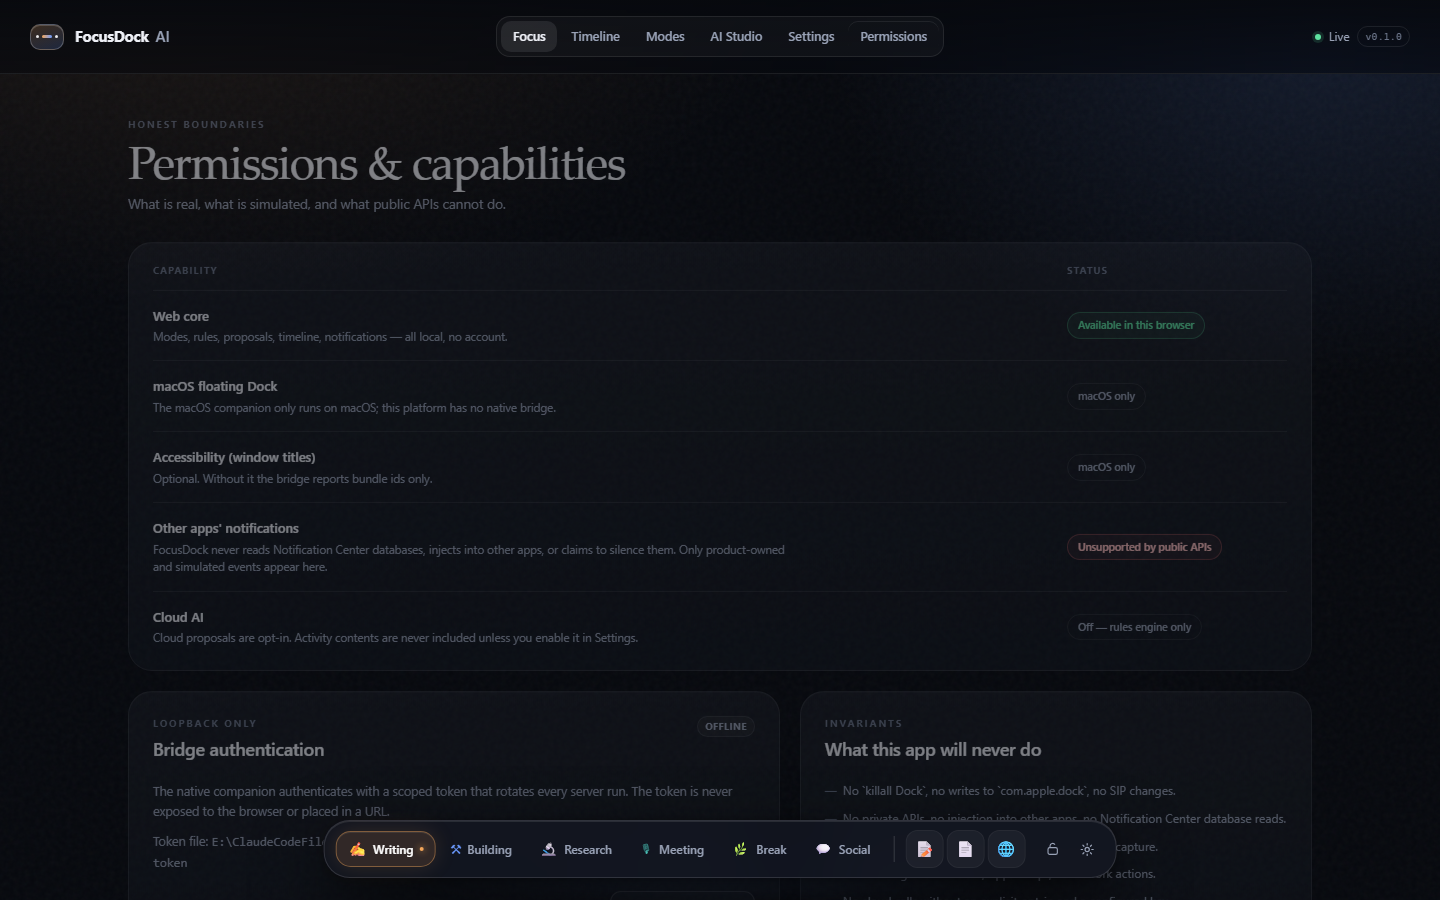
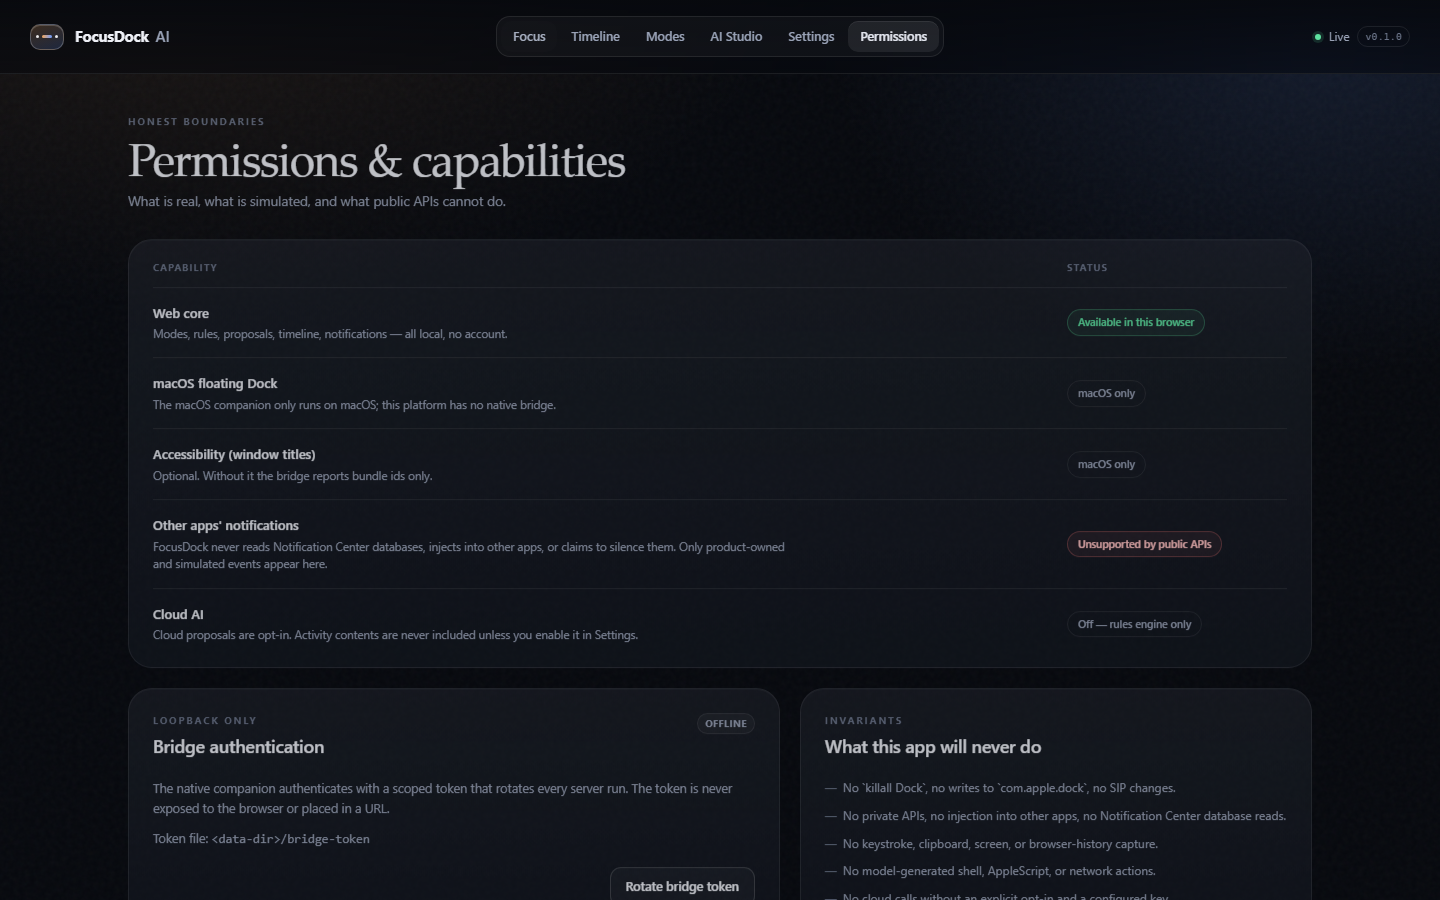
docs: prepare public v0.1.0 release and record QA waiver
- record independent sub-agent verification (not Muse)
- document the product owner's waiver of the Muse gate
- sanitize the permissions screenshot and Muse procedure
- update bilingual status, changelog, and release notes

diff --git a/tests/e2e/03-settings-security.spec.ts b/tests/e2e/03-settings-security.spec.ts
@@ -23,6 +23,10 @@ test("the capability panel states the notification limit honestly", async ({ pag
   await expect(page.getByText(/never reads Notification Center databases/)).toBeVisible();
   await expect(page.getByText("macOS only").first()).toBeVisible();
   await page.evaluate(() => window.scrollTo(0, 0));
+  await page.addStyleTag({ content: ".dock-wrap { display: none !important; }" });
+  await page.locator(".panel-note code").evaluateAll((nodes) => {
+    for (const node of nodes) node.textContent = "<data-dir>/bridge-token";
+  });
   await page.screenshot({ path: "qa/evidence/05-permissions.png" });
 });
 

diff --git a/FINAL_RELEASE_CLOSURE.md b/FINAL_RELEASE_CLOSURE.md
@@ -1,12 +1,23 @@
 # Final Release Closure — FocusDock AI v0.1.0
 
-Date: 2026-10-30
-Repository: <https://github.com/AIMetaPhD/agentic-focus-dock> (**private**)
-Release candidate: tag `v0.1.0-rc.2` · product code commit `01c21e0b72b2d717b913824906f8f66c3516d3dd`
-CI: <https://github.com/AIMetaPhD/agentic-focus-dock/actions/runs/40955753656> — **success**
+Date: 2026-11-01
+Repository: <https://github.com/AIMetaPhD/agentic-focus-dock> (**public**)
+Release: <https://github.com/AIMetaPhD/agentic-focus-dock/releases/tag/v0.1.0>
+Product code commit: `01c21e0b72b2d717b913824906f8f66c3516d3dd`
+Verified tree: `ea3ef8605932163f913d4db1d9d79860eed911bf`
+CI: <https://github.com/AIMetaPhD/agentic-focus-dock/actions/runs/40957464211> — **success**
+Previous private RC: tag `v0.1.0-rc.2`
 
-This document is the implementation owner's closure record. It is not a Muse
-sign-off and it does not authorize a public release.
+This document is the implementation owner's closure record. It is **not** a Muse
+sign-off and it does not claim that the Muse gate passed.
+
+## Product owner decision
+
+On 2026-11-01 the product owner selected the option to accept the independent
+Claude sub-agent verification as supplementary release evidence and proceed with
+the public release. The Muse gate remains **NOT VERIFIED**. This is a documented
+waiver, not a Muse PASS; the original acceptance criterion "Muse independent QA
+sign-off" is therefore **not fully met**.
 
 ## Gate status
 
@@ -16,13 +27,14 @@ sign-off and it does not authorize a public release.
 | G1 Runnable browser MVP | **PASS** | 69 automated tests; screenshots `qa/evidence/`; Windows 11 real run |
 | G2 Rules, AI proposals, persistence, privacy | **PASS** (rules path) | `server/test/rules.test.ts`, `server/test/proposals.test.ts`, E2E |
 | G3 macOS bridge | **NOT VERIFIED** | Swift package + macOS CI compile; no real-device run |
-| G4 Independent Muse QA | **NOT VERIFIED** | no Muse instance could reach the source (attempts 1–2); the source-snapshot channel was refused as opaque (attempt 3). See `docs/QA_REPORT.md` and `qa/muse-result-G4-attempt*.json` |
-| G5 Private release candidate | **PASS for private RC** | green CI, bilingual README, LICENSE/NOTICE/SECURITY/PRIVACY, private repo |
-| G6 Profile README | **BLOCKED** | requires a public repo and explicit user approval |
+| G4 Independent Muse QA | **WAIVED — Muse NOT VERIFIED** | three Muse attempts blocked by the VM/harness; independent Claude sub-agent PASS (not Muse) on `ea3ef86`; owner waiver 2026-11-01. See `docs/QA_REPORT.md` and `qa/SUBAGENT_VERIFICATION_2026-10-30.md` |
+| G5 Public release candidate | **PASS under documented waiver** | public repo, v0.1.0 Release, green CI, bilingual README, LICENSE/NOTICE/SECURITY/PRIVACY |
+| G6 Profile README | **PR OPEN — merge awaits owner** | `AIMetaPhD/AIMetaPhD` pull request; merge is not part of this release |
 
 ## What is real
 
-- A local web app at `http://127.0.0.1:4317`, started with `npm start`.
+- A public, MIT-licensed local web app at `http://127.0.0.1:4317`, started with
+  `npm start`.
 - Six modes with editable config, pinned apps, colors, allowlists, keywords,
   dwell/cooldown, notification policy.
 - Versioned persistence in SQLite; export/import; restore defaults; rollback.
@@ -46,8 +58,8 @@ sign-off and it does not authorize a public release.
 | Multi-display/full-screen/sleep-wake | **NOT VERIFIED** | same |
 | Live Ollama / cloud provider | **NOT EXERCISED** | no model/endpoint in this environment |
 | Global notification interception | **UNSUPPORTED** | public API limit; explicitly stated in UI/docs |
-| Public GitHub Release / profile PR | **NOT DONE** | awaiting user authorization |
-| Muse independent sign-off | **NOT VERIFIED** | all three dispatch attempts blocked by the Muse VM/harness, not by a product defect; see `docs/QA_REPORT.md` |
+| Muse independent sign-off | **NOT VERIFIED / WAIVED** | all three dispatch attempts blocked by the Muse VM/harness, not by a product defect; owner accepted supplementary sub-agent verification on 2026-11-01 |
+| Profile PR merge | **OPEN** | the PR is open; merging still requires the owner's approval |
 
 ## Evidence index
 
@@ -55,39 +67,41 @@ sign-off and it does not authorize a public release.
 |---|---|
 | Server/security/rules tests (52) | `server/test/`, result in `docs/QA_REPORT.md` |
 | Web unit tests (4) | `web/src/i18n.test.ts` |
-| Playwright (13) | `tests/e2e/`, report `qa/evidence/playwright-report/` |
-| Screenshots | `qa/evidence/*.png` |
-| CI run | Actions run `40955753656`, all three jobs green |
-| Muse attempt 1 | `qa/muse-result-G4-attempt1.json` (verbatim queue result) |
+| Playwright (13) | `tests/e2e/`, screenshots `qa/evidence/*.png` |
+| Independent sub-agent verification (not Muse) | `qa/SUBAGENT_VERIFICATION_2026-10-30.md` |
+| CI run | Actions run `40957464211`, all three jobs green on `ea3ef86` |
+| Muse attempts 1–3 | `qa/muse-result-G4-attempt*.json`, `docs/QA_REPORT.md` |
 | Architecture / threat model | `docs/ADR-001-ARCHITECTURE.md`, `docs/THREAT_MODEL.md` |
 | License audit | `docs/THIRD_PARTY_AUDIT.md`, `NOTICE.md` |
+| Release notes | `docs/RELEASE_NOTES_v0.1.0.md` |
 
 ## Security and privacy statement
 
 - No GPL-3.0 or all-rights-reserved code is copied. Research references are
   documented and were not vendored.
-- No keys, tokens, private paths, or personal screenshots are committed. CI runs
-  a tracked-file secret scan and a runtime dependency audit.
+- The tracked working tree was scanned (101 files); the pre-release git history
+  patch output (709,535 bytes) was scanned for secret patterns and the
+  workstation username. Both scans were clean.
+- The public permissions screenshot redacts the local bridge-token path and hides
+  the floating dock overlay.
 - The app stores only local mode config, synthetic/demo events and settings.
   The optional cloud key lives outside SQLite in a `0600` file.
 - No third-party notification database is read; no SIP/Dock modification; no
   shell/AppleScript execution by the model.
 
-## Required before a public release
+## Release conditions
 
-1. Resolve or formally waive the Muse QA gate. A Muse PASS on this commit is
-   required; if no Muse instance can reach the source, record G4 as NOT VERIFIED
-   and obtain the product owner's decision.
-2. Run the macOS bridge checklist on Apple Silicon and attach evidence
-   (`mac-bridge/README.md`).
-3. Obtain explicit user authorization to change repository visibility and create
-   a public Release/tag.
-4. Only after the repository is public and reachable, open the minimal
-   `AIMetaPhD/AIMetaPhD` profile PR and request the user's approval to merge.
+1. The Muse QA gate is **waived, not passed**. The owner accepted the sub-agent
+   verification as supplementary evidence on 2026-11-01.
+2. The macOS bridge remains **NOT VERIFIED**; the Release notes say so and the
+   binary is not presented as production-ready.
+3. Public visibility and the v0.1.0 Release were explicitly authorized by the
+   product owner on 2026-11-01.
+4. The profile README PR is open; merging it still requires the owner's approval.
 
 ## Commit / build
 
 - Node 24.12.0 on Windows 11; `npm ci && npm run verify` passes.
 - CI repeats the full suite on Ubuntu and compiles/tests the Swift package on
   macOS 14.
-- The private RC tag, if created, is `v0.1.0-rc.1` (no public Release).
+- Public tag: `v0.1.0`.

diff --git a/docs/QA_REPORT.md b/docs/QA_REPORT.md
@@ -1,6 +1,8 @@
 # QA Report — v0.1.0
 
-Status: **development verification complete; independent Muse QA PENDING.**
+Status: **development verification complete; independent Muse QA NOT VERIFIED;
+the product owner waived the Muse gate for v0.1.0 on 2026-11-01 based on
+supplementary sub-agent verification.**
 This file is written by the implementation owner. It is **not** a Muse sign-off.
 
 ## Environment
@@ -11,7 +13,8 @@ This file is written by the implementation owner. It is **not** a Muse sign-off.
 | Node | v24.12.0 |
 | Browser (E2E) | Playwright Chromium, 1440×900 |
 | Product code under test | `01c21e0b72b2d717b913824906f8f66c3516d3dd` (tag `v0.1.0-rc.2`) |
-| CI run | `https://github.com/AIMetaPhD/agentic-focus-dock/actions/runs/40955753656` (success on the product tree) |
+| Verified tree | `ea3ef8605932163f913d4db1d9d79860eed911bf` |
+| CI run | `https://github.com/AIMetaPhD/agentic-focus-dock/actions/runs/40957464211` (success on `ea3ef86`) |
 | Data | isolated `qa/e2e-data`, wiped per run; screenshots use synthetic data |
 | macOS | **not available** — G3 NOT VERIFIED |
 
@@ -26,7 +29,7 @@ Command: `npm test && npm run test:e2e` (also `npm run verify` in CI).
 | Playwright end-to-end | **13 passed, 0 failed** |
 | TypeScript | clean |
 | ESLint | clean |
-| Secret scan | clean (tracked files only) |
+| Secret scan | clean (99 tracked files) |
 
 ### What the automated tests prove
 
@@ -48,6 +51,25 @@ Command: `npm test && npm run test:e2e` (also `npm run verify` in CI).
   suggestion and switch, reload persistence, manual lock, AI diff/apply,
   rollback, new-mode creation, English/Chinese switch, capability truth.
 
+## Independent sub-agent verification (not Muse)
+
+A fresh-context Claude sub-agent re-ran the suite in an isolated git worktree on
+the same Windows workstation. It did not modify, commit, or push the product.
+
+| Item | Result |
+|---|---|
+| Commit | `ea3ef8605932163f913d4db1d9d79860eed911bf` |
+| `npm ci` | clean |
+| Typecheck / lint | pass |
+| Unit + integration | **56 passed** (52 server + 4 web) |
+| Build | pass |
+| Playwright | **13 passed** |
+| Black-box probes B1–B15 | pass; no Sev0/Sev1 |
+| Scope not covered | macOS runtime, live providers, public release, Muse QA |
+
+Full report: `qa/SUBAGENT_VERIFICATION_2026-10-30.md`. This is supplementary
+evidence, not a Muse gate pass.
+
 ## Evidence index
 
 | Evidence | Path |
@@ -57,10 +79,10 @@ Command: `npm test && npm run test:e2e` (also `npm run verify` in CI).
 | Building after suggested switch | `qa/evidence/02-focus-building.png` |
 | AI proposal diff | `qa/evidence/03-ai-diff.png` |
 | Mode editor + version history | `qa/evidence/04-mode-editor.png` |
-| Permissions & capabilities | `qa/evidence/05-permissions.png` |
+| Permissions & capabilities (local path redacted) | `qa/evidence/05-permissions.png` |
 | Chinese settings | `qa/evidence/06-settings-zh.png` |
 | Timeline after 50-event burst | `qa/evidence/07-timeline.png` |
-| Playwright HTML report | `qa/evidence/playwright-report/` |
+| Sub-agent report | `qa/SUBAGENT_VERIFICATION_2026-10-30.md` |
 | Test sources | `server/test/`, `web/src/*.test.ts`, `tests/e2e/` |
 
 ## Not verified
@@ -72,8 +94,7 @@ Command: `npm test && npm run test:e2e` (also `npm run verify` in CI).
 | Multi-display / full-screen / sleep-wake | no Mac | recording per scenario |
 | Live Ollama provider | no local model installed | request/response log + latency |
 | Live OpenAI-compatible provider | no endpoint/key used | opt-in screenshot + provider response |
-| Public GitHub release | awaiting user authorization | repo visibility + Release URL |
-| `AIMetaPhD` profile PR | depends on public release | PR URL |
+| Muse independent QA (G4) | three Muse VM/harness blocks | Muse re-dispatch on a reachable workstation; currently waived by owner |
 
 ## Independent Muse QA
 
@@ -88,9 +109,10 @@ Muse produces its own verdict; the development owner does not sign it.
 All three attempts are environment/harness blocks, not product failures and not
 a PASS. No Muse instance could reach the repository, and the snapshot channel
 was refused as opaque. The independent-QA gate therefore remains **NOT
-VERIFIED**; the automated evidence above must not be relabelled as an
-independent sign-off. This blocks a public release, not the private release
-candidate.
+VERIFIED**. The product owner accepted the sub-agent report as supplementary
+evidence and waived the Muse gate for v0.1.0 on 2026-11-01; this is not a Muse
+sign-off.
 
-No Sev0/Sev1 defect was found by the automated suite. That is not a substitute
-for independent QA, and it does not cover the macOS-only items above.
+No Sev0/Sev1 defect was found by the automated suite or the independent
+sub-agent. That does not cover the macOS-only items above and does not turn the
+Muse gate into a PASS.

diff --git a/docs/RELEASE_NOTES_v0.1.0.md b/docs/RELEASE_NOTES_v0.1.0.md
@@ -1,0 +1,65 @@
+# FocusDock AI v0.1.0
+
+**A local-first, AI-native focus dock with customizable modes and an optional macOS companion.**
+
+This is the first public release. It is a real, runnable local web app — not a
+mockup. Everything runs on `127.0.0.1`; there is no account, no telemetry, and
+no cloud key requirement.
+
+## What works
+
+- Bottom capsule dock with six editable modes, pinned apps, colors and manual lock.
+- Deterministic offline rules: allowlists, keywords, 15 s dwell, cooldown, hysteresis.
+- Notification queue with a 30 s switch cool-down and `Stay` / `Later` /
+  `Go to Social`; `Later` never launches an app.
+- AI Studio: natural-language instruction → validated JSON Patch → visible diff →
+  explicit apply → versioned rollback. Rules provider works offline; Ollama and
+  OpenAI-compatible adapters are opt-in.
+- SQLite persistence, export/import, restore defaults, timeline and audit log.
+- English / 简体中文 UI, including an honest capability panel.
+- Loopback security: Host/Origin allowlists, HttpOnly session, CSRF double-submit,
+  WebSocket origin checks, scoped rotating bridge token, 64 KB body limit,
+  rate limits, no CORS.
+- Optional Swift `NSPanel` + `WKWebView` bridge source, compiled and unit-tested
+  on a macOS 14 CI runner.
+
+## Verified
+
+- Windows 11: `npm ci`, typecheck, lint, 56 unit/integration tests, build and
+  13 Playwright tests pass.
+- CI run `40957464211` on commit `ea3ef86`: Ubuntu web tests, macOS 14 Swift
+  build/tests, secret scan and runtime audit all green.
+- A fresh-context Claude sub-agent independently re-ran the suite and black-box
+  probes B1–B15 in an isolated worktree; no Sev0/Sev1 finding.
+
+## Not verified — read before relying on it
+
+- **macOS floating panel / Accessibility runtime is NOT VERIFIED.** The Swift
+  source and macOS CI compile are present, but no Apple Silicon device was
+  available. Do not treat the bridge as production-ready.
+- **Live Ollama / OpenAI-compatible endpoints were not exercised.** Only the
+  rules provider and synthetic malicious-output rejection were tested.
+- **Muse independent QA is NOT VERIFIED.** Three Muse dispatches were blocked by
+  the Muse VM/harness (repository access, then an opaque-snapshot rejection); no
+  Muse test executed. The product owner accepted the sub-agent verification as
+  supplementary evidence and waived the Muse gate for this release. **This is not
+  a Muse sign-off.**
+- Global system-notification interception is unsupported by public Apple APIs
+  and is not claimed.
+- No signed/notarized `.app` and no auto-update.
+
+## Install
+
+```bash
+git clone https://github.com/AIMetaPhD/agentic-focus-dock.git
+cd agentic-focus-dock
+npm install
+npm start
+```
+
+Node.js 22.5+ (Node 24 recommended). The server listens on
+`http://127.0.0.1:4317` and tries 4318–4327 if the port is busy.
+
+## License
+
+MIT. See `LICENSE` and `NOTICE.md`.

diff --git a/README.md b/README.md
@@ -28,7 +28,16 @@ no cloud key required.
 | Optional Ollama / OpenAI-compatible adapters | **IMPLEMENTED, NOT EXERCISED** | needs a local model / endpoint to verify |
 | macOS floating Dock | **NOT VERIFIED** | Swift source + macOS CI compile only; no Mac was available |
 | Global system notification interception | **UNSUPPORTED BY DESIGN** | public-API limitation, documented in the app |
-| Public release / profile README | **AWAITING USER AUTHORIZATION** | private development only |
+| Public release | **PUBLIC v0.1.0** | [GitHub Release](https://github.com/AIMetaPhD/agentic-focus-dock/releases/tag/v0.1.0) |
+| Profile README PR | **OPEN — merge awaits owner** | [AIMetaPhD/AIMetaPhD](https://github.com/AIMetaPhD/AIMetaPhD/pulls) |
+| Muse independent QA | **NOT VERIFIED** | three Muse VM/harness blocks; see [`docs/QA_REPORT.md`](docs/QA_REPORT.md) |
+| Independent sub-agent verification | **PASS (not Muse)** | 56 unit/integration + 13 Playwright; [`qa/SUBAGENT_VERIFICATION_2026-10-30.md`](qa/SUBAGENT_VERIFICATION_2026-10-30.md) |
+
+> **QA note:** The original plan required a Muse independent sign-off. Muse could
+> not reach the source in three attempts. A fresh-context Claude sub-agent on the
+> same machine independently re-ran the suite and black-box probes; it passed.
+> The product owner accepted that as supplementary evidence and waived the Muse
+> gate for v0.1.0. This is **not** a Muse sign-off.
 
 The honest capability matrix is in [`docs/CAPABILITIES.md`](docs/CAPABILITIES.md).
 

diff --git a/qa/SUBAGENT_VERIFICATION_2026-10-30.md b/qa/SUBAGENT_VERIFICATION_2026-10-30.md
@@ -1,0 +1,38 @@
+# Independent subagent verification — 2026-10-30
+
+Status: **PASS for the Windows/local web release candidate.**
+Verifier: a fresh-context Claude sub-agent on the same Windows workstation.
+This is **not Muse**, not a third-party human, and **not a Muse sign-off**.
+
+## Scope
+
+- Commit under test: `ea3ef8605932163f913d4db1d9d79860eed911bf`
+- Isolated git worktree; the verifier did not modify, commit, or push the product.
+- Fresh dependency install (`npm ci`) rather than reusing the development tree.
+
+## Commands and results
+
+| Command | Result |
+|---|---|
+| `npm ci` | clean install |
+| `npm run typecheck` | pass |
+| `npm run lint` | pass |
+| `npm test` | **56 passed** (52 server + 4 web) |
+| `npm run build` | pass |
+| `npm run test:e2e` | **13 passed** |
+| Black-box probes B1–B15 | pass; no Sev0/Sev1 finding |
+
+The probes covered Host/Origin rejection, unauthenticated API access, CSRF,
+WebSocket origin/session checks, bridge-token scope, oversized bodies, event
+dedupe, the 50-event burst policy, proposal injection/path traversal, secret
+leakage, and audit output.
+
+## Not covered
+
+- macOS bridge runtime and Accessibility flow (no Mac host).
+- Live Ollama / OpenAI-compatible endpoints (no live endpoint).
+- Public GitHub release and the profile PR.
+- Muse independent QA. The Muse gate remains **NOT VERIFIED**.
+
+This report is supplementary evidence for the product owner's release decision.
+It must not be relabelled as a Muse PASS.

diff --git a/README.zh-CN.md b/README.zh-CN.md
@@ -27,7 +27,14 @@ API Key 也能完整使用。
 | 可选 Ollama / OpenAI 兼容适配器 | **已实现，未实测** | 需要本地模型或真实端点 |
 | macOS 浮动 Dock | **未验证** | 仅有 Swift 源码与 macOS CI 编译；开发机没有 Mac |
 | 全局系统通知拦截 | **设计上不支持** | 公开 API 限制，界面中已说明 |
-| 公开发布 / Profile README | **等待用户授权** | 当前仅私有开发 |
+| 公开发布 | **已公开 v0.1.0** | [GitHub Release](https://github.com/AIMetaPhD/agentic-focus-dock/releases/tag/v0.1.0) |
+| Profile README PR | **已提交，等待所有者合并** | [AIMetaPhD/AIMetaPhD](https://github.com/AIMetaPhD/AIMetaPhD/pulls) |
+| Muse 独立 QA | **未验证** | Muse VM/执行环境三次阻断；见 [`docs/QA_REPORT.md`](docs/QA_REPORT.md) |
+| 独立子代理验证 | **通过（非 Muse）** | 56 个单元/集成 + 13 个 Playwright；[`qa/SUBAGENT_VERIFICATION_2026-10-30.md`](qa/SUBAGENT_VERIFICATION_2026-10-30.md) |
+
+> **QA 说明：** 原计划要求 Muse 独立签核。Muse 三次都无法访问源码。随后由同机、
+> 全新上下文的 Claude 子代理独立重跑测试与黑盒探针并通过。项目所有者接受其作为
+> 补充证据，并对 v0.1.0 豁免 Muse 门禁。这**不是** Muse 签核。
 
 完整能力边界见 [`docs/CAPABILITIES.md`](docs/CAPABILITIES.md)。
 

diff --git a/qa/MUSE_PROCEDURE.md b/qa/MUSE_PROCEDURE.md
@@ -10,7 +10,7 @@ on synthetic data.
 ## Fixed facts
 
 - Repository on this Windows workstation:
-  `E:\ClaudeCodeFiles\MyProducts\agentic-focus-dock`
+  `<repo-root>` (redacted in the public copy)
 - Product commit under test: the exact `commit_sha` in the queue task inputs.
 - Platform: Windows 11, Node 24. The macOS bridge cannot be tested here.
 - Product data: synthetic demo events only. Do not open any personal data
@@ -31,7 +31,7 @@ on synthetic data.
 1. Create a temporary clone and check out the exact commit:
 
 ```powershell
-$repo = "E:\ClaudeCodeFiles\MyProducts\agentic-focus-dock"
+$repo = "<repo-root>"
 $sha  = "<commit_sha from inputs>"
 $temp = Join-Path $env:TEMP ("focusdock-qa-" + (Get-Random))
 git clone --no-hardlinks $repo $temp

diff --git a/CHANGELOG.md b/CHANGELOG.md
@@ -1,8 +1,8 @@
 # Changelog
 
-## 0.1.0 — 2026-10-30
+## 0.1.0 — 2026-11-01
 
-First private release candidate.
+First public release (private RC on 2026-10-30).
 
 ### Added
 
@@ -40,4 +40,6 @@ First private release candidate.
 - Ollama and cloud providers are implemented but not exercised against a live
   endpoint in this environment.
 - No signed/notarized `.app`, no auto-update.
-- Public release and the profile README PR await user authorization.
+- Muse independent QA is **NOT VERIFIED**; the product owner waived the gate for
+  v0.1.0 based on supplementary sub-agent verification. This is not a Muse PASS.
+- The profile README PR is open; merging it still requires the owner's approval.
